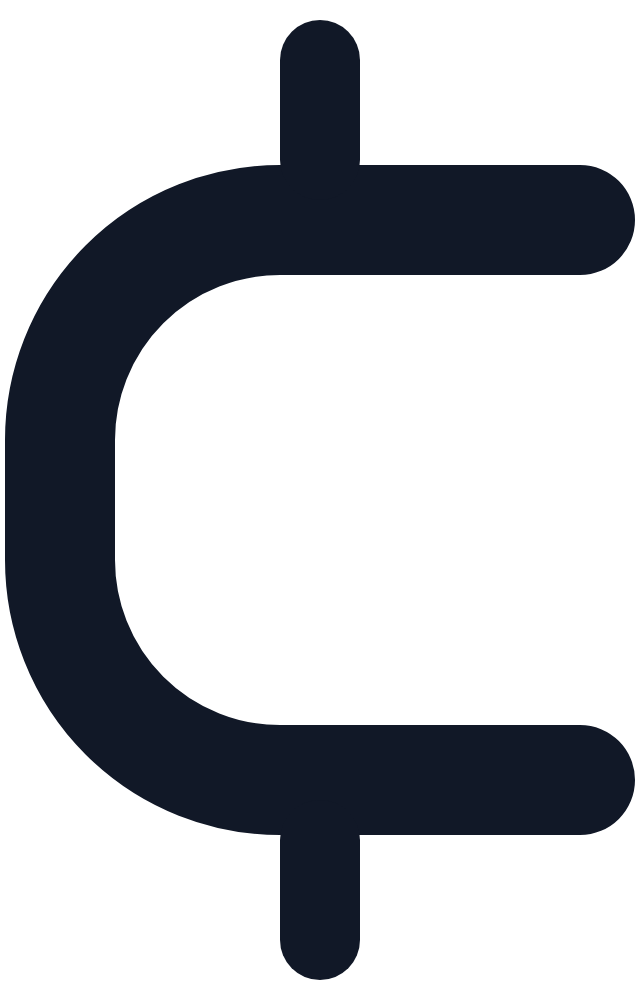
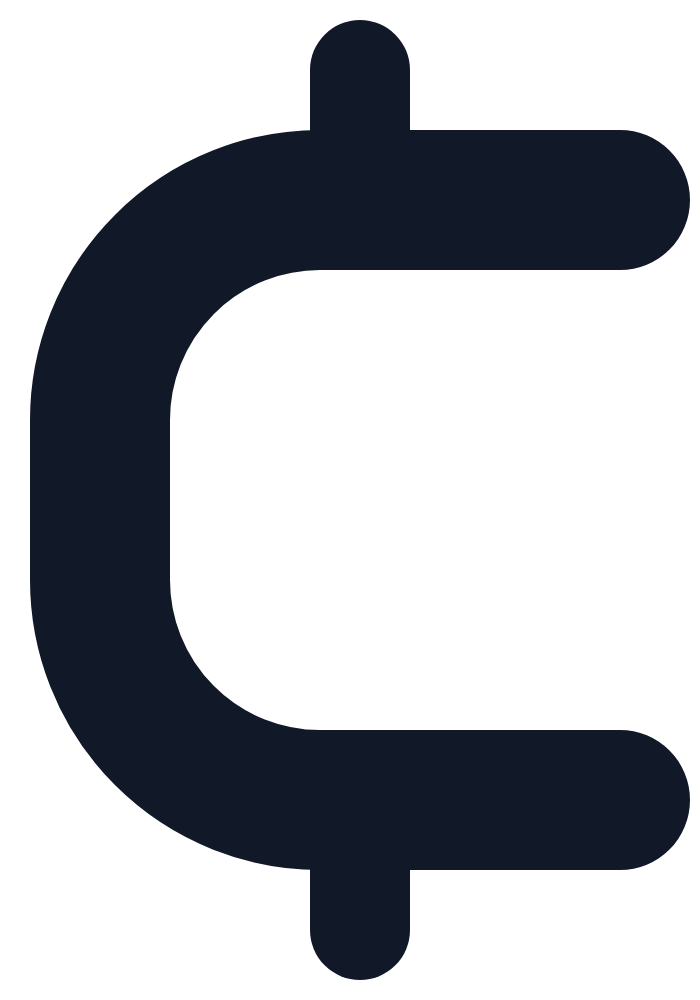
better currency layout

diff --git a/lib/ui/calorie_card.dart b/lib/ui/calorie_card.dart
@@ -230,22 +230,16 @@ class CalorieCardFront extends StatelessWidget {
         child: Column(
           crossAxisAlignment: CrossAxisAlignment.start,
           children: [
-            // Like a bank card: brand top-left, contactless top-right, the
-            // chip under the brand with the balance alongside it.
+            // Like a banking app's card (Monzo's): brand top-left, the
+            // balance top-right, the chip on its own underneath. No
+            // contactless mark: it means nothing here.
             Row(
+              crossAxisAlignment: CrossAxisAlignment.start,
               children: [
-                Expanded(child: _Wordmark()),
-                Icon(
-                  Icons.contactless_outlined,
-                  color: Colors.white.withValues(alpha: 0.75),
-                  size: 20,
+                const Padding(
+                  padding: EdgeInsets.only(top: 2),
+                  child: _Wordmark(),
                 ),
-              ],
-            ),
-            const Spacer(),
-            Row(
-              children: [
-                _CardChip(color: design.chip),
                 const SizedBox(width: 16),
                 // The balance is the hero; the caption says what it means.
                 Expanded(
@@ -277,6 +271,8 @@ class CalorieCardFront extends StatelessWidget {
                 ),
               ],
             ),
+            const Spacer(),
+            _CardChip(color: design.chip),
             // Flexible gaps: roomy on big cards, still fits on small ones.
             const Spacer(flex: 2),
             // Macros where a card number would be, each with a small caption
@@ -466,32 +462,35 @@ class _BalanceTickerState extends State<BalanceTicker>
   Widget _number(double value) {
     final over = value < 0;
     final color = over ? CalorieCardColors.overBudget : Colors.white;
+    final style = TextStyle(
+      color: color,
+      fontSize: 34,
+      height: 1.0,
+      fontWeight: FontWeight.w800,
+      fontFeatures: const [FontFeature.tabularFigures()],
+    );
+    // Like a banking app's balance: the symbol smaller than the number and
+    // level with its top, "−⊂412" when over (like "−£412").
     return FittedBox(
       fit: BoxFit.scaleDown,
       alignment: Alignment.centerRight,
-      child: Text.rich(
-        TextSpan(children: [
-          // "−⊂412" when over, like "−£412".
-          if (over) const TextSpan(text: '−'),
-          WidgetSpan(
-            alignment: PlaceholderAlignment.middle,
-            child: Padding(
-              padding: const EdgeInsets.only(right: 3),
-              child: CalorieSymbol(size: 31, color: color),
-            ),
+      child: Row(
+        mainAxisSize: MainAxisSize.min,
+        crossAxisAlignment: CrossAxisAlignment.start,
+        children: [
+          if (over) ExcludeSemantics(child: Text('−', style: style)),
+          Padding(
+            padding: const EdgeInsets.only(top: 1, right: 2),
+            child: CalorieSymbol(size: 27, color: color),
           ),
-          TextSpan(text: formatCardKcal(value)),
-        ]),
-        key: widget.textKey,
-        semanticsLabel:
-            '${over ? 'minus ' : ''}${formatCardKcal(value)} calories',
-        style: TextStyle(
-          color: over ? CalorieCardColors.overBudget : Colors.white,
-          fontSize: 34,
-          height: 1.0,
-          fontWeight: FontWeight.w800,
-          fontFeatures: const [FontFeature.tabularFigures()],
-        ),
+          Text(
+            formatCardKcal(value),
+            key: widget.textKey,
+            semanticsLabel:
+                '${over ? 'minus ' : ''}${formatCardKcal(value)} calories',
+            style: style,
+          ),
+        ],
       ),
     );
   }
@@ -549,7 +548,7 @@ class _BalanceTickerState extends State<BalanceTicker>
                               alignment: PlaceholderAlignment.middle,
                               child: Padding(
                                 padding: const EdgeInsets.only(right: 1),
-                                child: CalorieSymbol(size: 12, color: color),
+                                child: CalorieSymbol(size: 14, color: color),
                               ),
                             ),
                             TextSpan(text: formatCardKcal(_change)),

diff --git a/web/get.html b/web/get.html
@@ -30,7 +30,7 @@
     .card .n { font-weight: 700; font-size: 14px; }
     .card .chip { position: absolute; left: 20px; top: 52px; width: 42px; height: 32px; border-radius: 7px;
       background: linear-gradient(135deg, #FDE68A, #FBBF24 55%, #D97706); }
-    .card .amt { position: absolute; right: 20px; top: 46px; font-size: 34px; font-weight: 700; letter-spacing: -.5px; }
+    .card .amt { position: absolute; right: 20px; top: 14px; font-size: 34px; font-weight: 700; letter-spacing: -.5px; line-height: 1; }
     .card .amt small { font-size: 14px; margin-left: 4px; }
     .card .m { position: absolute; left: 20px; right: 20px; bottom: 44px; display: flex; gap: 22px; font-size: 10px; font-weight: 700; letter-spacing: .8px; opacity: .9; }
     .card .m b { display: block; font-size: 17px; letter-spacing: 0; margin-top: 2px; }
@@ -52,8 +52,8 @@
     li strong { color: var(--ink); }
     footer { text-align: center; color: var(--muted); font-size: 13px; padding: 0 16px 32px; }
     footer a { color: var(--muted); }
-    .sym { height: 30px; width: auto; margin-right: 3px; vertical-align: -0.1em; }
-  .amt { display: flex; align-items: center; }
+    .sym { height: 26px; width: auto; margin: 1px 2px 0 0; }
+  .amt { display: flex; align-items: flex-start; }
 </style>
 </head>
 <body>
@@ -64,7 +64,7 @@
     <div class="card" aria-hidden="true">
       <div class="n">TheCalorieCard</div>
       <div class="chip"></div>
-      <div class="amt" aria-label="1,840 calories"><svg class="sym" viewBox="16 0 64 100" aria-hidden="true"><path d="M74 22 H44 a22 22 0 0 0 -22 22 v12 a22 22 0 0 0 22 22 H74" fill="none" stroke="currentColor" stroke-width="11" stroke-linecap="round" stroke-linejoin="round"/><line x1="48" y1="6" x2="48" y2="16" stroke="currentColor" stroke-width="8" stroke-linecap="round"/><line x1="48" y1="84" x2="48" y2="94" stroke="currentColor" stroke-width="8" stroke-linecap="round"/></svg>1,840</div>
+      <div class="amt" aria-label="1,840 calories"><svg class="sym" viewBox="12 0 70 100" aria-hidden="true"><path d="M74 20 H44 a22 22 0 0 0 -22 22 v16 a22 22 0 0 0 22 22 H74" fill="none" stroke="currentColor" stroke-width="14" stroke-linecap="round" stroke-linejoin="round"/><line x1="48" y1="7" x2="48" y2="14" stroke="currentColor" stroke-width="10" stroke-linecap="round"/><line x1="48" y1="86" x2="48" y2="93" stroke="currentColor" stroke-width="10" stroke-linecap="round"/></svg>1,840</div>
       <div class="m"><span>PROTEIN<b>112g</b></span><span>CARBS<b>180g</b></span><span>FAT<b>54g</b></span></div>
       <div class="who">YOUR NAME</div>
     </div>

diff --git a/lib/ui/calorie_symbol.dart b/lib/ui/calorie_symbol.dart
@@ -7,14 +7,15 @@ import 'package:flutter/material.dart';
 /// It isn't a character in any font, so it's drawn. Screen readers skip
 /// it: put "calories" in the text's semantics label instead.
 class CalorieSymbol extends StatelessWidget {
-  /// The symbol's height (about a capital letter's height plus strokes).
+  /// The symbol's height, strokes included. About 1.2× the font size
+  /// makes the C as tall as the digits beside it.
   final double size;
   final Color? color;
 
   const CalorieSymbol({super.key, this.size = 20, this.color});
 
   /// How wide the symbol is for a given height.
-  static const widthRatio = 0.64;
+  static const widthRatio = 0.70;
 
   @override
   Widget build(BuildContext context) {
@@ -35,35 +36,36 @@ class _SymbolPainter extends CustomPainter {
 
   @override
   void paint(Canvas canvas, Size size) {
-    // Designed in a 100×100 box; the drawn part runs from x 16 to 80.
+    // Designed in a 100×100 box; the drawn part runs from x 12 to 82.
+    // The C's stroke matches extra-bold digits at this size.
     final s = size.height / 100;
     canvas.save();
     canvas.scale(s);
-    canvas.translate(-16, 0);
+    canvas.translate(-12, 0);
     final card = Paint()
       ..color = color
       ..style = PaintingStyle.stroke
-      ..strokeWidth = 11
+      ..strokeWidth = 14
       ..strokeCap = StrokeCap.round
       ..strokeJoin = StrokeJoin.round;
     // The C: a card's rounded left edge, open on the right.
     final c = Path()
-      ..moveTo(74, 22)
-      ..lineTo(44, 22)
-      ..arcToPoint(const Offset(22, 44),
+      ..moveTo(74, 20)
+      ..lineTo(44, 20)
+      ..arcToPoint(const Offset(22, 42),
           radius: const Radius.circular(22), clockwise: false)
-      ..lineTo(22, 56)
-      ..arcToPoint(const Offset(44, 78),
+      ..lineTo(22, 58)
+      ..arcToPoint(const Offset(44, 80),
           radius: const Radius.circular(22), clockwise: false)
-      ..lineTo(74, 78);
+      ..lineTo(74, 80);
     canvas.drawPath(c, card);
     // The two short strokes, like a currency sign's.
     final stroke = Paint()
       ..color = color
-      ..strokeWidth = 8
+      ..strokeWidth = 10
       ..strokeCap = StrokeCap.round;
-    canvas.drawLine(const Offset(48, 6), const Offset(48, 16), stroke);
-    canvas.drawLine(const Offset(48, 84), const Offset(48, 94), stroke);
+    canvas.drawLine(const Offset(48, 7), const Offset(48, 14), stroke);
+    canvas.drawLine(const Offset(48, 86), const Offset(48, 93), stroke);
     canvas.restore();
   }
 
